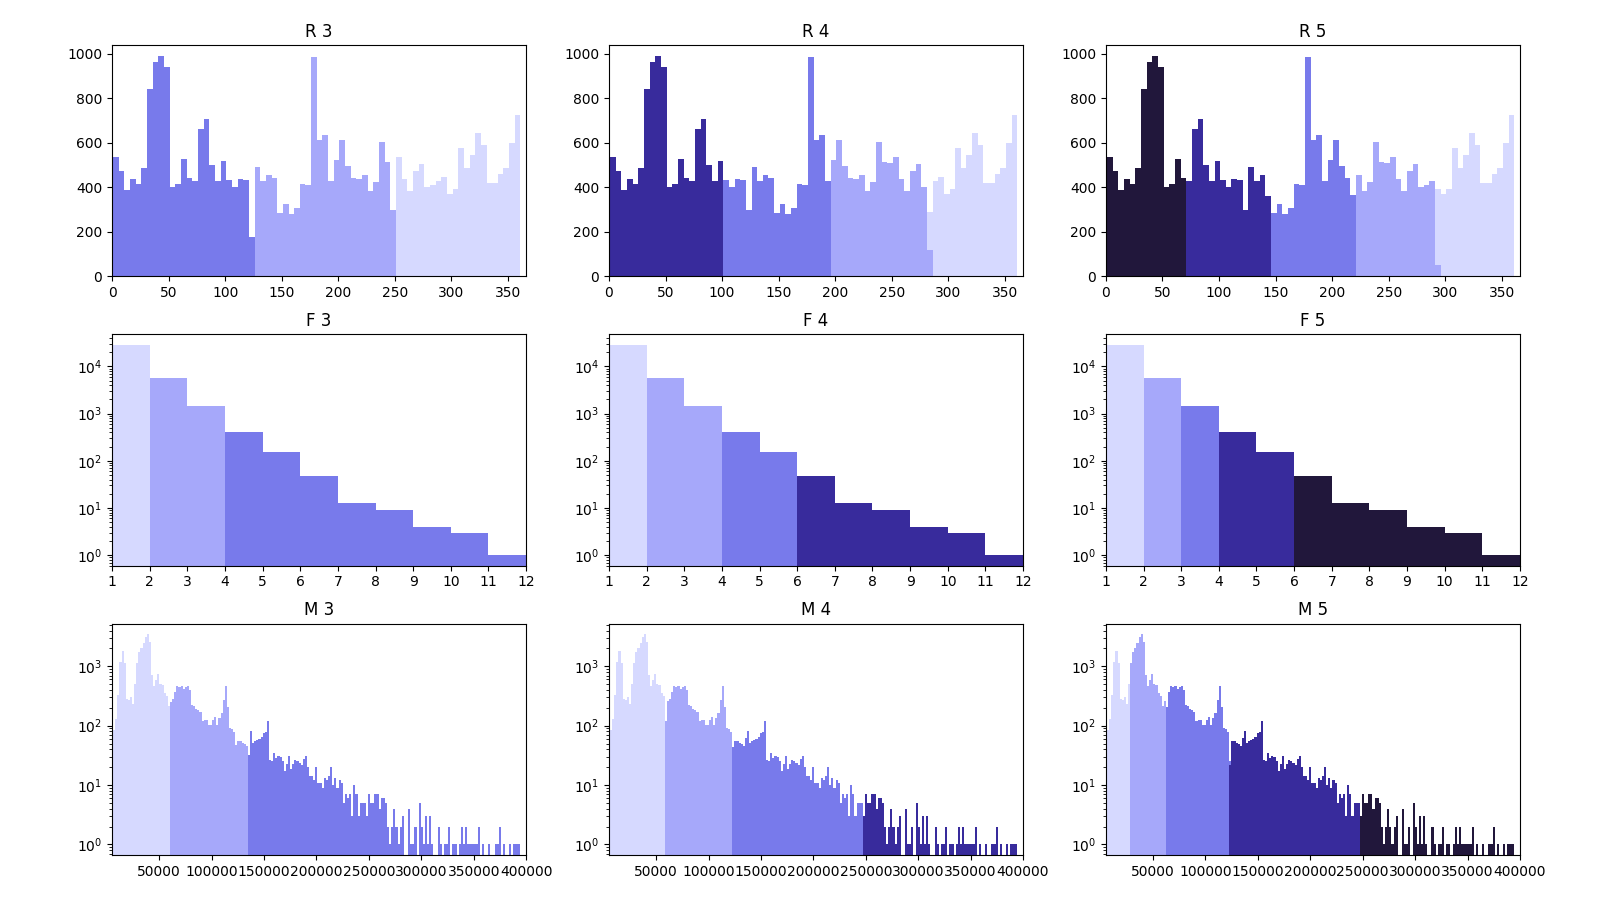
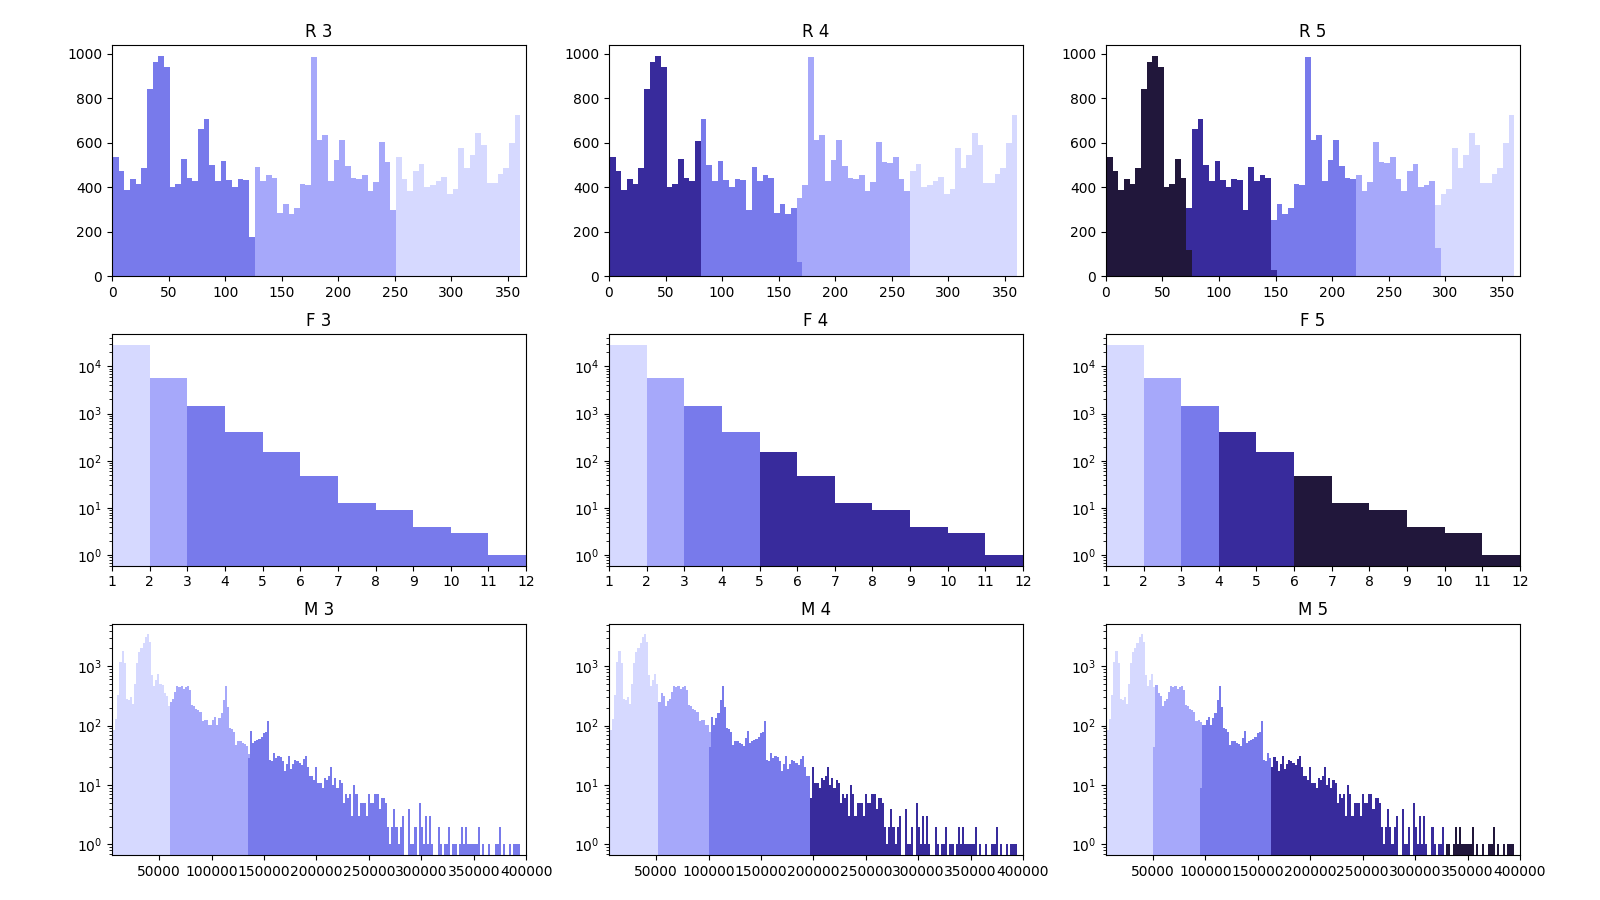
classMLrfm

diff --git a/rfm.py b/rfm.py
@@ -7,7 +7,9 @@ import matplotlib.pyplot as plt
 import matplotlib
 import pandas as pd
 from sklearn.cluster import KMeans
+from sklearn.metrics import silhouette_score as S_index
 from sklearn.metrics import calinski_harabasz_score as CH_index
+from sklearn.metrics import davies_bouldin_score as DB_index
 import seaborn as sns
 import pickle
 from dateutil.parser import parse
@@ -63,7 +65,7 @@ def getrfm(time1 = datetime.datetime.now().strftime("%y-%m-01")):
     elapsed_time = timef - times
     print(elapsed_time, "elapsed")
 
-def kmeansrfm():
+def kmeansrfm(ks = [4],showplt=False,showindex=False):
     df = pd.read_csv('rfm.csv',names=['id','R','F','M'])
     
     # elbow point
@@ -78,17 +80,18 @@ def kmeansrfm():
     # plt.plot(list(point.keys()),list(point.values()))
     # plt.show()
     
-    ks = [3,4,5]
-    CH_indices = pd.DataFrame(np.zeros(shape=(3,len(ks))),columns=ks,index=['R','F','M'])
-    fig, ax = plt.subplots(3,3,figsize=(16,9))
-    colors = [[0.13,0.09,0.23],[0.22,0.17,0.61],[0.47,0.48,0.92],[0.65,0.66,0.98],[0.84,0.85,1]][::-1]
+    ks = ks
+    S_indices = pd.DataFrame(np.zeros(shape=(3,len(ks))),columns=ks,index=['RS','FS','MS'])
+    CH_indices = pd.DataFrame(np.zeros(shape=(3,len(ks))),columns=ks,index=['RC','FC','MC'])
+    DB_indices = pd.DataFrame(np.zeros(shape=(3,len(ks))),columns=ks,index=['RD','FD','MD'])
+    fig, ax = plt.subplots(3,len(ks),figsize=(16,9))
+    colors = [[0.13,0.09,0.23],[0.30,0.28,0.75],[0.55,0.56,0.98],[0.84,0.85,1]][::-1]
     Rmin, Rmax = 0, 366
     Fmin, Fmax = 1, 12
     Mmin, Mmax = 5000, 400000
     df_cluster = pd.DataFrame([-1 for x in range(len(df))])
     for k in range(len(ks)):
-        kmeans = KMeans(n_clusters=ks[k],max_iter=100,n_init='auto',random_state=10)
-        #df_r = df_r.sort_values(by='R',ascending=True).reset_index(drop=True)
+        kmeans = KMeans(n_clusters=ks[k],max_iter=100,n_init=20,random_state=10)
         df_r = df[['R']].copy()
         kmeans.fit(df_r)
         r_cluster = kmeans.predict(df_r)
@@ -105,11 +108,6 @@ def kmeansrfm():
                     continue
                 if df_r.loc[i,'cluster1'] == index_before[j]:
                     df_r.loc[i,'cluster'] = index_after[j]
-        CH_indices.iloc[0,k] = int(CH_index(df_r[['R']],r_cluster))
-        ax[0,k].set_title('R %d' %ks[k])
-        ax[0,k].set_xlim(Rmin,Rmax)
-        for i in range(ks[k]):
-            ax[0,k].hist(df_r.loc[df_r['cluster'] == i,['R']],color=colors[i],bins=np.arange(1,Rmax,5))
         
         df_f = df[['F']].copy()
         kmeans.fit(df_f)
@@ -127,15 +125,6 @@ def kmeansrfm():
                     continue
                 if df_f.loc[i,'cluster1'] == index_before[j]:
                     df_f.loc[i,'cluster'] = index_after[j]
-        CH_indices.iloc[1,k] = int(CH_index(df_f[['F']],f_cluster))
-        ax[1,k].set_title('F %d' %ks[k])
-        ax[1,k].set_xticks(np.arange(1,Fmax+1,1))
-        ax[1,k].set_xlim(Fmin,Fmax)
-        ax[1,k].set_yscale('log')
-        #ax[1,k].set_xscale('log')
-        for i in range(ks[k]):
-            #ax[1,k].hist(df_f.loc[df_f['cluster'] == i,['F']],color=colors[2*i],bins=10**np.linspace(1,np.log10(xmax),200))
-            ax[1,k].hist(df_f.loc[df_f['cluster'] == i,['F']],color=colors[i],bins=np.linspace(1,Fmax,Fmax))            
         
         df_m = df[['M']].copy()
         kmeans.fit(df_m)
@@ -153,178 +142,142 @@ def kmeansrfm():
                     continue
                 if df_m.loc[i,'cluster1'] == index_before[j]:
                     df_m.loc[i,'cluster'] = index_after[j]
-        CH_indices.iloc[2,k] = int(CH_index(df_m[['M']],m_cluster))
-        ax[2,k].set_title('M %d' %ks[k])
-        ax[2,k].set_xlim(Mmin,Mmax)
-        #ax[2,k].set_xticks(np.arange(1,Mmax+1,200))
-        # ax[2,k].set_xscale('log')
-        ax[2,k].set_yscale('log')
-        for i in range(ks[k]):
-            # ax[2,k].hist(df_m.loc[df_m['cluster'] == i,['M']],color=colors[i],bins=10**np.linspace(np.log10(3000),np.log10(Mmax),200))
-            ax[2,k].hist(df_m.loc[df_m['cluster'] == i,['M']],color=colors[i],bins=np.linspace(1,Mmax,200))
         
-    print(CH_indices)
+        print(df_r_describe['R'])
+        print(df_f_describe['F'])
+        print(df_m_describe['M'])
+        if showplt == True:
+            ax[0,k].set_title('R %d' %ks[k])
+            ax[0,k].set_xlim(Rmin,Rmax)
+            for i in range(ks[k]):
+                ax[0,k].hist(df_r.loc[df_r['cluster'] == i,['R']],color=colors[i],bins=np.arange(1,Rmax,5))
+            
+            ax[1,k].set_title('F %d' %ks[k])
+            ax[1,k].set_xticks(np.arange(1,Fmax+1,1))
+            ax[1,k].set_xlim(Fmin,Fmax)
+            ax[1,k].set_yscale('log')
+            #ax[1,k].set_xscale('log')
+            for i in range(ks[k]):
+                #ax[1,k].hist(df_f.loc[df_f['cluster'] == i,['F']],color=colors[2*i],bins=10**np.linspace(1,np.log10(xmax),200))
+                ax[1,k].hist(df_f.loc[df_f['cluster'] == i,['F']],color=colors[i],bins=np.linspace(1,Fmax,Fmax))            
+            
+            ax[2,k].set_title('M %d' %ks[k])
+            ax[2,k].set_xlim(Mmin,Mmax)
+            # ax[2,k].set_xticks(np.arange(1,Mmax+1,200))
+            # ax[2,k].set_xscale('log')
+            ax[2,k].set_yscale('log')
+            for i in range(ks[k]):
+                # ax[2,k].hist(df_m.loc[df_m['cluster'] == i,['M']],color=colors[i],bins=10**np.linspace(np.log10(3000),np.log10(Mmax),200))
+                ax[2,k].hist(df_m.loc[df_m['cluster'] == i,['M']],color=colors[i],bins=np.linspace(1,Mmax,200))
+        
+        if showindex == True:
+            S_indices.iloc[0,k] = S_index(df_r[['R']],r_cluster)
+            CH_indices.iloc[0,k] = CH_index(df_r[['R']],r_cluster)
+            DB_indices.iloc[0,k] = DB_index(df_r[['R']],r_cluster)
+            S_indices.iloc[1,k] = S_index(df_f[['F']],f_cluster)
+            CH_indices.iloc[1,k] = CH_index(df_f[['F']],f_cluster)
+            DB_indices.iloc[1,k] = DB_index(df_f[['F']],f_cluster)
+            S_indices.iloc[2,k] = S_index(df_m[['M']],m_cluster)
+            CH_indices.iloc[2,k] = CH_index(df_m[['M']],m_cluster)
+            DB_indices.iloc[2,k] = DB_index(df_m[['M']],m_cluster)
+    
+    if showindex == True:
+        SCD_indices = pd.concat([S_indices,CH_indices,DB_indices])
+        SCD_indices.to_csv('rfmMLindex.csv',index=True)
+        print(SCD_indices)
     
     df['r_grade'] = df_r['cluster']+1
     df['f_grade'] = df_f['cluster']+1
     df['m_grade'] = df_m['cluster']+1
     df.to_csv('rfmMLall.csv',index=False,)
 
-    plt.subplots_adjust(left=0.07,bottom=0.05,top=0.95,right=0.95,hspace=0.25)
-    plt.savefig('clustering_rfm.png')
-    plt.show()
+    if showplt==True:
+        plt.subplots_adjust(left=0.07,bottom=0.05,top=0.95,right=0.95,hspace=0.25)
+        plt.savefig('clustering_rfm.png')
+        plt.show()
 
-def classrfm(Nclass=10,time1 = datetime.datetime.now().strftime("%y-%m-01"),showplt=False):
+def classrfmML(Nclass=4,time1 = datetime.datetime.now().strftime("%y-%m-01"),showplt=False):
     # 데이터 불러오기
-    with open('rfm.csv','r') as rfmcsv:
-        rfm_o = np.empty(shape=(0,3))
-        data = list(csv.reader(rfmcsv))
-        member = []
-        for x in data:
-            if float(x[3]) != 0:
-                member += [x[0]]
-                rfm_o = np.append(rfm_o,np.array([[float(x[1]),float(x[2]),float(x[3])]]),axis=0)
-    Nclass = Nclass
-    lenrfm = len(rfm_o)
-    sumpayment = sum(rfm_o.T[2])
-    rfm_o = np.append(rfm_o,np.zeros(shape=(lenrfm,3)),axis=1)
-    rfm = rfm_o.copy()
-
-    # RFM 등급 분류
-    percentage,percentile = np.zeros(shape=(Nclass)),np.zeros(shape=(Nclass))
-    for i in range(1,Nclass):
-        #percentage[i] = sum([x for x in range(Nclass-i+1,Nclass+1)])/sum([x for x in range(1,Nclass+1)]) # 1:2:3: ... :(N-1):N
-        percentage[i] = i/Nclass    # 일정 비율
-        if round(percentage[i] * lenrfm,4) == int(percentage[i] * lenrfm) and percentage[i] != 0:
-            percentile[i] = int(percentage[i] * lenrfm) - 1
-        else:
-            percentile[i] = int(percentage[i] * lenrfm)
-
-    # R/F/M 등급 기준
-    rfm_criteria = np.zeros(shape=(Nclass,3,3))
-    for l in range(3): # l=0:R, l=1:F, l=2:M
-        if l == 0:
-            rfm = np.array(sorted(rfm,key=lambda x: (x[0],x[1],x[2]))[::-1])       # R이 겹치면 F,M으로 한 번 더 정렬해줌
-        elif l == 1:
-            rfm = np.array(sorted(rfm,key=lambda x: (x[1],x[2],x[0])))             # F가 겹치면 M,R로 한 번 더 정렬해줌
-        elif l == 2:
-            rfm = np.array(sorted(rfm,key=lambda x: (x[2],x[1],x[0])))             # M이 겹치면 F,R로 한 번 더 정렬해줌
-        j = 0
-        for i in range(lenrfm):
-            if j < Nclass and i == int(percentile[j]):
-                for k in range(3):
-                    rfm_criteria[j,l,k] = rfm[i,k]
-                j += 1
-            rfm[i,l+3] = j
+    df = pd.read_csv('rfmMLall.csv',names=['id','R','F','M','r_grade','f_grade','m_grade'],skiprows=1)
     
-    # RFM_o에 멤버 순서에 맞게 등급 저장
-    for i in range(lenrfm):
-        rfm_o[i,3],rfm_o[i,4],rfm_o[i,5] = 1, 1, 1
-        for j in range(Nclass-1,-1,-1):
-            if rfm_o[i,0] < rfm_criteria[j,0,0] or (rfm_o[i,0] == rfm_criteria[j,0,0] and rfm_o[i,1] > rfm_criteria[j,0,1]) or (rfm_o[i,0] == rfm_criteria[j,0,0] and rfm_o[i,1] == rfm_criteria[j,0,1] and rfm_o[i,2] >= rfm_criteria[j,0,2]):
-                rfm_o[i,3] = j+1
-                break
-        for j in range(Nclass-1,-1,-1):
-            if rfm_o[i,1] > rfm_criteria[j,1,1] or (rfm_o[i,1] == rfm_criteria[j,1,1] and rfm_o[i,2] > rfm_criteria[j,1,2]) or (rfm_o[i,1] == rfm_criteria[j,1,1] and rfm_o[i,2] == rfm_criteria[j,1,2] and rfm_o[i,0] <= rfm_criteria[j,1,0]):
-                rfm_o[i,4] = j+1
-                break
-        for j in range(Nclass-1,-1,-1):
-            if rfm_o[i,2] > rfm_criteria[j,2,2] or (rfm_o[i,2] == rfm_criteria[j,2,2] and rfm_o[i,1] > rfm_criteria[j,2,1]) or (rfm_o[i,2] == rfm_criteria[j,2,2] and rfm_o[i,1] == rfm_criteria[j,2,1] and rfm_o[i,0] <= rfm_criteria[j,2,0]):
-                rfm_o[i,5] = j+1
-                break
-    rfm = rfm_o.copy()
-    
+    # raise SystemError
+    sumpayment = df['M'].sum()
+    lenrfm = len(df)
     # 6개 순서대로 등급별 0고객수, 1매출액, 2구성비, 3매출기여도, 4기여효과, 5기준, 6등급, 7가중치
-    reff,feff,meff = np.zeros(shape=(Nclass,8)),np.zeros(shape=(Nclass,8)),np.zeros(shape=(Nclass,8))
+    eff = np.zeros(shape=(3,Nclass,8))
     for i in range(Nclass):
-        reff[i,0] = sum([1 for x in rfm.T[3] if x == Nclass-i])
-        reff[i,1] = sum([x[2] for x in rfm if x[3] == Nclass-i])
-        reff[i,2] = reff[i,0]/lenrfm
-        reff[i,3] = reff[i,1]/sumpayment
-        reff[i,4] = reff[i,3] / reff[i,2]
-        reff[i,5] = rfm_criteria[Nclass-i-1,0,0]
-        reff[i,6] = Nclass-i
-        feff[i,0] = sum([1 for x in rfm.T[4] if x == Nclass-i])
-        feff[i,1] = sum([x[2] for x in rfm if x[4] == Nclass-i])
-        feff[i,2] = feff[i,0]/lenrfm
-        feff[i,3] = feff[i,1]/sumpayment
-        feff[i,4] = feff[i,3] / feff[i,2]
-        feff[i,5] = rfm_criteria[Nclass-i-1,1,1]
-        feff[i,6] = Nclass-i
-        meff[i,0] = sum([1 for x in rfm.T[5] if x == Nclass-i])
-        meff[i,1] = sum([x[2] for x in rfm if x[5] == Nclass-i])
-        meff[i,2] = meff[i,0]/lenrfm
-        meff[i,3] = meff[i,1]/sumpayment
-        meff[i,4] = meff[i,3] / meff[i,2]
-        meff[i,5] = rfm_criteria[Nclass-i-1,2,2]
-        meff[i,6] = Nclass-i
+        for j in range(3): # eff[0]: R, eff[1]: F, eff[2]: M
+            if j == 0:
+                eff[0,i,0] = df.groupby(by='r_grade')['R'].describe().loc[i+1,'count']
+                eff[0,i,1] = df.loc[df['r_grade'] == i+1,'M'].sum()
+                eff[j,i,5] = df.groupby(by='r_grade')['R'].describe().loc[i+1,'min']
+            elif j == 1:
+                eff[1,i,0] = df.groupby(by='f_grade')['F'].describe().loc[i+1,'count']
+                eff[1,i,1] = df.loc[df['f_grade'] == i+1,'M'].sum()
+                eff[j,i,5] = df.groupby(by='f_grade')['F'].describe().loc[i+1,'min']
+            elif j == 2:
+                eff[2,i,0] = df.groupby(by='m_grade')['M'].describe().loc[i+1,'count']
+                eff[2,i,1] = df.loc[df['m_grade'] == i+1,'M'].sum()
+                eff[j,i,5] = df.groupby(by='m_grade')['M'].describe().loc[i+1,'min']
+            eff[j,i,2] = eff[j,i,0]/lenrfm
+            eff[j,i,3] = eff[j,i,1]/sumpayment
+            eff[j,i,4] = eff[j,i,3] / eff[j,i,2]            
+            eff[j,i,6] = i+1
     
-    reff = np.array([x for x in reff if x[0] != 0])
-    feff = np.array([x for x in feff if x[0] != 0])
-    meff = np.array([x for x in meff if x[0] != 0])    
-
-    # 등급과 매출기여도 회귀선의 기울기로 가중치 구하기
-    rpf = np.polyfit(reff.T[6],reff.T[3],1)
-    fpf = np.polyfit(feff.T[6],feff.T[3],1)
-    mpf = np.polyfit(meff.T[6],meff.T[3],1)
+    # 등급과 기여효과 회귀선의 기울기로 가중치 구하기
+    rpf = np.polyfit(eff[0].T[6],eff[0].T[4],1)
+    fpf = np.polyfit(eff[1].T[6],eff[1].T[4],1)
+    mpf = np.polyfit(eff[2].T[6],eff[2].T[4],1)
     rfm_weight = rpf[0] + fpf[0] + mpf[0]
     r_weight = rpf[0] / rfm_weight
     f_weight = fpf[0] / rfm_weight
     m_weight = mpf[0] / rfm_weight
-    reff[:,7] = r_weight
-    feff[:,7] = f_weight
-    meff[:,7] = m_weight
-    
-    # RFM 등급 저장
-    with open('rfmall.csv','w') as rfmallcsv:
-        csv_writer = csv.writer(rfmallcsv)
-        rfm_index = []
-        for i in range(lenrfm):
-            rfm_index += [rfm[i,3] * r_weight + rfm[i,4] * f_weight + rfm[i,5] * m_weight]
-            csv_writer.writerow([time1] + [member[i]] + [int(x) for x in rfm[i]] + [rfm_index[i]])
+    eff[0,:,7] = r_weight
+    eff[1,:,7] = f_weight
+    eff[2,:,7] = m_weight
+    print(eff)
     
     # RFM class 저장
-    with open('rfmclass.csv','w') as rfmclasscsv:
+    with open('rfmMLclass.csv','w') as rfmclasscsv:
         csv_writer = csv.writer(rfmclasscsv)
-        for i in range(Nclass):
-            csv_writer.writerow([time1] + ["R"] + [int(reff[i,6])] + [x for x in reff[i,:6]] + [reff[i,7]])
-            csv_writer.writerow([time1] + ["F"] + [int(feff[i,6])] + [x for x in feff[i,:6]] + [feff[i,7]])
-            csv_writer.writerow([time1] + ["M"] + [int(meff[i,6])] + [x for x in meff[i,:6]] + [meff[i,7]])
+        rfm = ['R','F','M']
+        for j in range(3):
+            for i in range(Nclass):
+                csv_writer.writerow([time1] + [rfm[j]] + [int(eff[j,i,6])] + [x for x in eff[j,i,:6]] + [eff[j,i,7]])
+    
+    df['rfm_index'] = df['r_grade'] * r_weight + df['f_grade'] * f_weight + df['m_grade'] * m_weight
+    df.to_csv('rfmMLall2.csv',header=True)
     
     # FLOT 0고객수, 1매출액, 2구성비, 3매출기여도, 4기여효과, 5기준, 6등급, 7가중치
-    fig, ax = plt.subplots(2,3,figsize=(16,9))
-    for i in range(0,3):
-        ax[0,i].set_xlabel("grade")
-        ax[0,i].set_ylabel("sales_eff")
-        ax[1,i].set_xlabel("grade")
-        ax[1,i].set_ylabel("contr_eff")
-    ax[0,0].scatter(reff.T[6],reff.T[3])
-    ax[0,0].set_title('R')
-    ax[0,1].scatter(feff.T[6],feff.T[3])
-    ax[0,1].set_title('F')
-    ax[0,2].scatter(meff.T[6],meff.T[3])
-    ax[0,2].set_title('M')
-    ax[1,0].scatter(reff.T[6],reff.T[4])
-    ax[1,0].set_title('R')
-    ax[1,1].scatter(feff.T[6],feff.T[4])
-    ax[1,1].set_title('F')
-    ax[1,2].scatter(meff.T[6],meff.T[4])
-    ax[1,2].set_title('M')
-    #ax[1,1].hist(rfm_index,bins=np.arange(1,11,1))
-    #ax[1,1].set_title('Index')
     if showplt == True:
+        fig, ax = plt.subplots(2,3,figsize=(16,9))
+        for i in range(0,3):
+            ax[0,i].set_xlabel("grade")
+            ax[0,i].set_ylabel("sales_eff")
+            ax[1,i].set_xlabel("grade")
+            ax[1,i].set_ylabel("contr_eff")
+            #ax[0,i].scatter(eff[i].T[6],eff[i].T[3])
+            #ax[1,i].scatter(eff[0].T[6],eff[i].T[4])
+        ax[0,i].set_title('R')
+        ax[0,1].set_title('F')
+        ax[0,2].set_title('M')
+        ax[1,0].set_title('R')
+        ax[1,1].set_title('F')
+        ax[1,2].set_title('M')
+        ax[1,1].hist(df['rfm_index'],bins=np.arange(1,4,0.1))
+        ax[1,1].set_title('Index')
         plt.show()
 
 def plotrfm(time1 = datetime.datetime.now().strftime("%y-%m-01"),showplt=True):
-    df = pd.read_csv('rfmall.csv',names=['date','id','R','F','M','rc','fc','mc','rfmindex'])
-    Nclass = df['rc'].nunique()
-
+    df = pd.read_csv('rfmMLall.csv',names=['id','R','F','M','r_grade','f_grade','m_grade'],skiprows=1)
+    Nclass = df['r_grade'].nunique()
+    
     Rmin, Rmax = 0, 366
     Fmin, Fmax = 1, 12
     Mmin, Mmax = 5000, 400000
     Mticks = [10000,30000,100000,300000]
     cmap = 'gist_ncar'
-    colors = [[0.13,0.09,0.23],[0.22,0.17,0.61],[0.47,0.48,0.92],[0.65,0.66,0.98],[0.84,0.85,1]][::-1]
+    colors = [[0.13,0.09,0.23],[0.30,0.28,0.75],[0.55,0.56,0.98],[0.84,0.85,1]][::-1]
     
     fig= plt.figure(figsize=(16,9))
     ax0 = fig.add_subplot(1,2,2, projection='3d')
@@ -386,14 +339,14 @@ def plotrfm(time1 = datetime.datetime.now().strftime("%y-%m-01"),showplt=True):
     ax4.set_title('R histogram')
     ax4.set_xlabel('Recency')
     for i in range(Nclass):
-        ax4.hist(df.loc[df['rc']==i+1,'R'],bins=(range(Rmin,Rmax,5)),color=colors[i])
+        ax4.hist(df.loc[df['r_grade']==i+1,'R'],bins=(range(Rmin,Rmax,5)),color=colors[i])
 
     ax5 = fig.add_subplot(3,4,6)
     ax5.set_title('F histogram')
     ax5.set_xlabel('Frequency')
     ax5.set_yscale('symlog')
     for i in range(Nclass):
-        ax5.hist(df.loc[df['fc']==i+1,'F'],bins=(range(Fmin,Fmax,1)),color=colors[i])
+        ax5.hist(df.loc[df['f_grade']==i+1,'F'],bins=(range(Fmin,Fmax,1)),color=colors[i])
 
     ax6 = fig.add_subplot(3,4,10)
     ax6.set_title('M histogram')
@@ -402,8 +355,8 @@ def plotrfm(time1 = datetime.datetime.now().strftime("%y-%m-01"),showplt=True):
     ax6.set_yscale('symlog')
     # ax6.set_xscale('log')
     for i in range(Nclass):
-        # ax6.hist(df.loc[df['mc']==i+1,'M'],bins=(10**np.linspace(np.log10(3000),np.log10(Mmax),200)),color=colors[i])
-        ax6.hist(df.loc[df['mc']==i+1,'M'],bins=(np.linspace(Mmin,Mmax,200)),color=colors[i])
+        # ax6.hist(df.loc[df['m_grade']==i+1,'M'],bins=(10**np.linspace(np.log10(3000),np.log10(Mmax),200)),color=colors[i])
+        ax6.hist(df.loc[df['m_grade']==i+1,'M'],bins=(np.linspace(Mmin,Mmax,200)),color=colors[i])
     
     plt.subplots_adjust(left=0.05,bottom=0.05,top=0.92,right=0.95,hspace=0.35)
     plt.suptitle('RFM scatter', fontsize=16)
@@ -435,7 +388,8 @@ if __name__ == '__main__':
     if True:
     #for time1 in time:
         #getrfm(time1=time1)
-        kmeansrfm()
-        # classrfm(5,time1=time1,showplt=False)
+        # kmeansrfm(showplt=False,showindex=False)
+        # classrfm(4,time1=time1,showplt=False)
+        classrfmML(4,time1=time1,showplt=True)
         # plotrfm(time1=time1,showplt=True)
         #uploadrfm()
